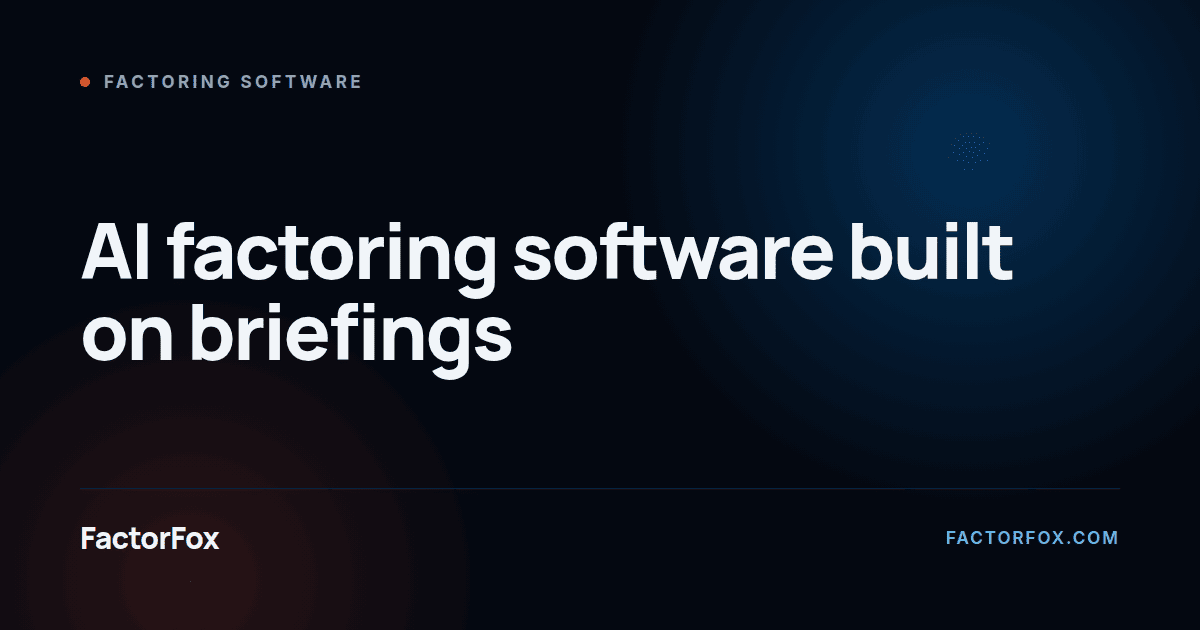
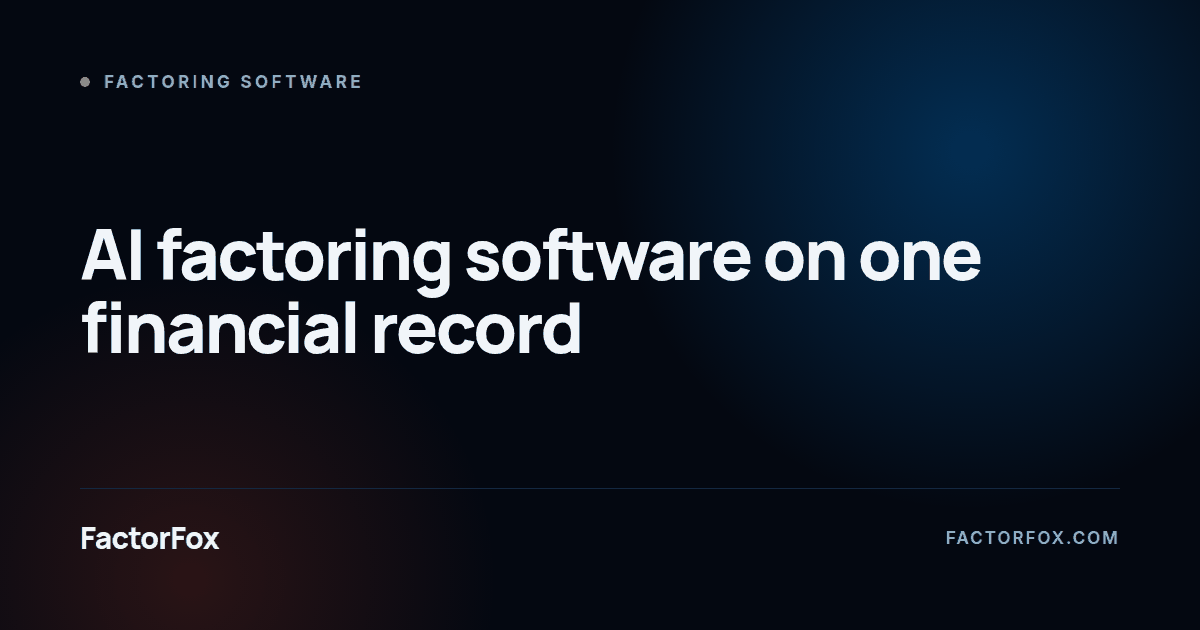
New positioning: one operating system, one financial record, one connected ecosystem
Owner direction, September 2026: AI is no longer the differentiator. The homepage headline, the supporting line, the Organization description, the footer and the site default title and description now carry "One operating system. One financial record. One connected ecosystem." The homepage search title keeps the phrase buyers search for and now reads "AI factoring software on one financial record". The H1 eyebrow reads "Factoring software for invoice factoring, asset based lending, purchase order funding and reverse factoring".

Claude-Session: https://claude.ai/code/session_01Uae8PWv3WXqWQ7eQ8iAZsS

diff --git a/src/app/page.tsx b/src/app/page.tsx
@@ -33,9 +33,9 @@ const CAPABILITIES: { title: string; line: string; href: string }[] = [
 ];
 
 export const metadata: Metadata = pageMeta({
-  title: "AI factoring software built on briefings",
+  title: "AI factoring software on one financial record",
   description:
-    "AI native invoice factoring software for factors, asset based lenders and PO funders: role aware briefings, evidence behind every conclusion, Teams approvals.",
+    "Factoring software on one operating system, one financial record and one connected ecosystem, for factors, asset based lenders and purchase order funders.",
   path: "/",
   intent: "product",
   target: "factoring software",
@@ -82,7 +82,7 @@ export default function HomePage() {
             ...softwareSchema({
               name: "FactorFox",
               description:
-                "AI native operating platform for invoice factoring, asset based lending, purchase order finance and reverse factoring.",
+                "One operating system, one financial record and one connected ecosystem for invoice factoring, asset based lending, purchase order finance and reverse factoring.",
               path: "/",
             }),
             "@id": "https://factorfox.com/#software",
@@ -98,22 +98,25 @@ export default function HomePage() {
         <span className="u-glow-edges pointer-events-none absolute inset-0" aria-hidden="true" />
         <Container width="wide" className="relative">
           <div className="mx-auto max-w-[52rem] text-center">
-            {/* The eyebrow is part of the H1 so the heading names what the page is, AI factoring
-                software, in the words buyers search for, while the line people read stays the same. */}
+            {/* The eyebrow is part of the H1 so the heading names what the page is, factoring
+                software, in the words buyers search for. Positioning set by the owner, September
+                2026: AI is no longer the differentiator; one system, one record, one ecosystem is. */}
             <h1 className="m-0">
               <span className="u-eyebrow block" style={{ color: "var(--signal)" }}>
-                AI factoring software for factoring, asset based lending, purchase order funding and
-                reverse factoring
+                Factoring software for invoice factoring, asset based lending, purchase order funding
+                and reverse factoring
               </span>
               <span className="text-hero mt-6 block">
-                Your business does not need another dashboard. It needs a{" "}
-                <span className="text-[var(--accent)]">briefing</span>.
+                <span className="sm:block">One operating system.</span>{" "}
+                <span className="sm:block">One financial record.</span>{" "}
+                <span className="text-[var(--accent)] sm:block">One connected ecosystem.</span>
               </span>
             </h1>
 
             <p className="text-body-lg mx-auto mt-7 max-w-[44rem] text-balance text-[var(--fg-muted)] sm:text-[19px]">
-              Legacy systems record what already happened, then leave you to find it. FactorFox tells each
-              person what changed, what it means, what proves it and what to do about it.
+              Funding, underwriting, collections, accounting and reporting run in one system and post to one
+              double entry ledger, connected to your clients, your capital partners and the tools you already
+              use. Every figure agrees, because there is only one place it comes from.
             </p>
 
             <div className="mt-9 flex flex-wrap justify-center gap-3">

diff --git a/src/app/layout.tsx b/src/app/layout.tsx
@@ -33,11 +33,11 @@ const inter = localFont({
 export const metadata: Metadata = {
   metadataBase: new URL(SITE.url),
   title: {
-    default: "FactorFox | Factoring and asset based lending software built on briefings, not dashboards",
+    default: "FactorFox | One operating system. One financial record. One connected ecosystem.",
     template: "%s | FactorFox",
   },
   description:
-    "FactorFox is the intelligence and operating platform for factoring, asset based lending, purchase order funding and reverse factoring. Role aware briefings, evidence behind every conclusion, covenant monitoring, and approvals inside Microsoft Teams.",
+    "FactorFox is one operating system, one financial record and one connected ecosystem for factoring, asset based lending, purchase order funding and reverse factoring.",
   applicationName: SITE.name,
   authors: [{ name: SITE.legalName, url: SITE.url }],
   creator: SITE.legalName,

diff --git a/src/components/site-footer.tsx b/src/components/site-footer.tsx
@@ -12,8 +12,8 @@ export function SiteFooter() {
           <div>
             <Image src="/brand/factorfox-logo.svg" alt="FactorFox" width={300} height={80} className="h-9 w-auto" />
             <p className="mt-5 max-w-[34ch] text-[15px] leading-[1.65] text-[var(--fg-muted)]">
-              The intelligence and operating platform for factoring, asset based lending, purchase order
-              funding, reverse factoring and specialty finance. Building software for this industry since {SITE.founded}.
+              One operating system. One financial record. One connected ecosystem. For factoring, asset
+              based lending, purchase order funding, reverse factoring and specialty finance, since {SITE.founded}.
             </p>
             <Link href="/demo" className="btn-secondary mt-7">
               Request a demonstration

diff --git a/src/lib/site.ts b/src/lib/site.ts
@@ -3,7 +3,7 @@ export const SITE = {
   legalName: "FactorFox Software LLC",
   url: "https://factorfox.com",
   founded: "2002",
-  tagline: "The intelligence and operating platform for specialty finance.",
+  tagline: "One operating system. One financial record. One connected ecosystem.",
   /**
    * Two sign in doors during the migration. FactorFox AI is the platform every
    * customer is moving to and is listed first. Classic is the legacy platform
